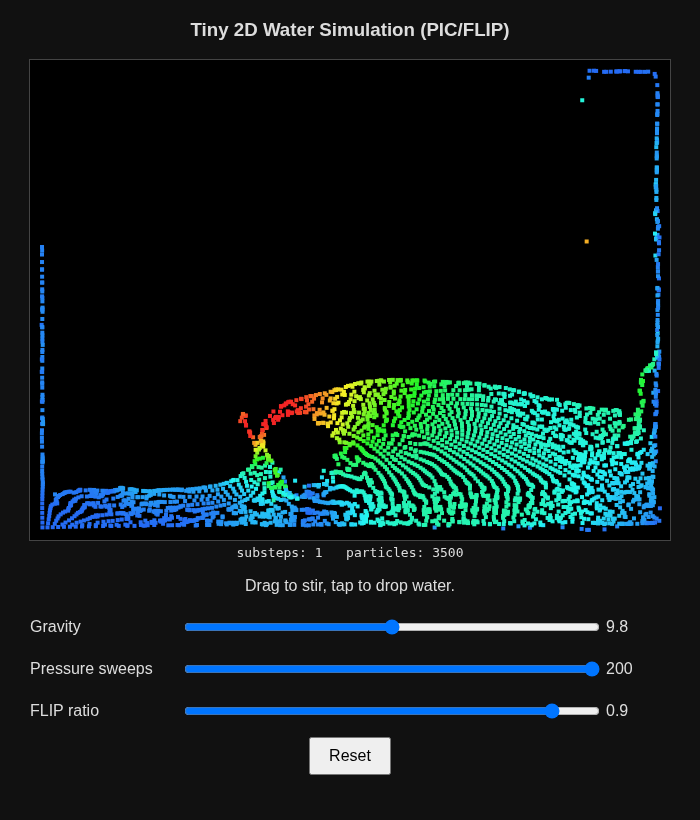
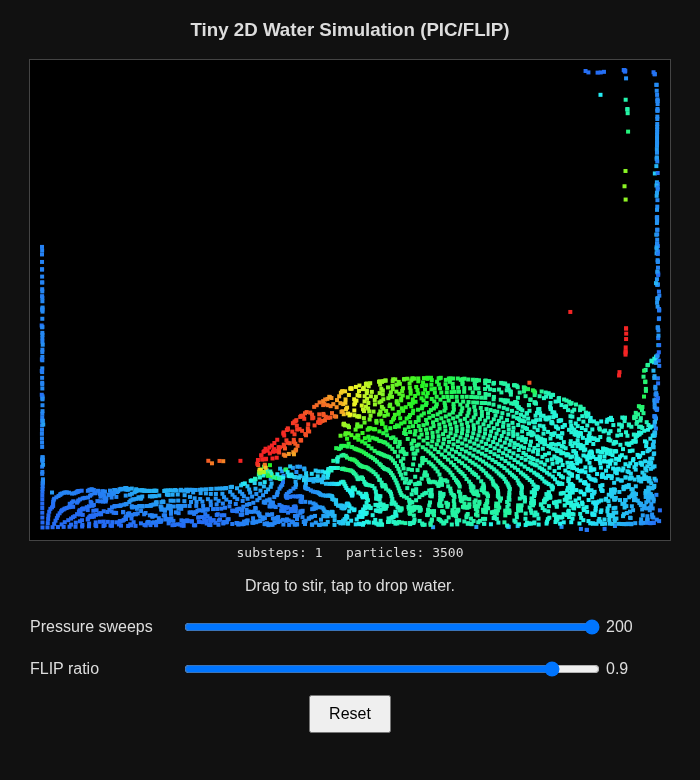
learn: remove gravity slider from UI (fixed 9.8; w.gravity still settable from code); checks.js b26dda1a 8/8 PASS; fingerprint 59d24fc8 unchanged; screenshot re-rendered

diff --git a/learn/checks.js b/learn/checks.js
@@ -53,12 +53,12 @@ const empty = () => { const w = createWorld(); w.x = []; w.y = []; w.vx = []; w.
   check('water conserved', ok, `${n0} particles, all inside the tank for 400 steps`);
 }
 
-// 6. Controls stability (amendment 4:26 PM): 2g + stir at the 4 m/s cap for 2 s.
-//    Ceiling from physics: sqrt(2)*(5.8 m/s 1g splash peak + 4 m/s stir cap) = 13.86 m/s.
+// 6. Controls stability (amendment 4:26 PM): 1g + stir at the 4 m/s cap for 2 s (gravity fixed).
+//    Ceiling: 5.8 m/s 1g splash peak + 4 m/s stir cap = 9.8 m/s.
 //    CFL: max|u|*dt_sub/h <= 1, measured after the last substep of every frame.
 {
   const M = require(path); if (M.frame) {
-    const w = M.createWorld(), n0 = w.x.length; w.gravity = 2 * 9.8;
+    const w = M.createWorld(), n0 = w.x.length; // gravity fixed at 9.8 (slider removed 4:28 PM)
     let maxU = 0, maxC = 0, ok = true;
     for (let f = 0; f < 480; f++) {
       const a = (f / 480) * 4 * Math.PI;
@@ -71,7 +71,7 @@ const empty = () => { const w = createWorld(); w.x = []; w.y = []; w.vx = []; w.
       }
       maxU = Math.max(maxU, fu); maxC = Math.max(maxC, fu * (1 / 240 / w.substeps) / CELL);
     }
-    const lim = Math.SQRT2 * (5.8 + 4);
+    const lim = (5.8 + 4);
     check('controls: finite and inside', ok && w.x.length === n0, `${w.x.length} of ${n0} particles`);
     check('controls: speed ceiling', maxU <= lim, `max|u| = ${maxU.toFixed(3)} m/s (limit ${lim.toFixed(2)})`);
     check('controls: CFL per substep', maxC <= 1, `max |u|*dt_sub/h = ${maxC.toFixed(3)} (limit 1)`);

diff --git a/learn/index.html b/learn/index.html
@@ -21,7 +21,6 @@
   <div id="status"></div>
   <p>Drag to stir, tap to drop water.</p>
   <div class="controls">
-    <label>Gravity <input id="gravity" type="range" min="0" max="19.6" step="0.1" value="9.8"><span id="gravityVal"></span></label>
     <label>Pressure sweeps <input id="sweeps" type="range" min="1" max="200" step="1" value="200"><span id="sweepsVal"></span></label>
     <label>FLIP ratio <input id="flip" type="range" min="0" max="1" step="0.05" value="0.9"><span id="flipVal"></span></label>
     <div><button id="reset">Reset</button></div>
@@ -34,8 +33,8 @@
     let world = createWorld();
     const params = new URLSearchParams(location.search);
 
-    // Sliders write straight into the world's settings (w.gravity, w.maxSweeps, w.flip).
-    const sliders = { gravity: 'gravity', sweeps: 'maxSweeps', flip: 'flip' };
+    // Sliders write straight into the world's settings (w.maxSweeps, w.flip). Gravity stays 9.8.
+    const sliders = { sweeps: 'maxSweeps', flip: 'flip' };
     function readSliders() {
       for (const [id, key] of Object.entries(sliders)) {
         const value = Number(document.getElementById(id).value);

diff --git a/learn/README.md b/learn/README.md
@@ -11,8 +11,8 @@ Headless test in Node: `node learn/test_headless.js` (400 steps, checks particle
 ## Controls
 - **Drag** on the water to stir: the grid speeds near your finger are nudged toward your finger's speed (capped at 4 m/s) before the pressure solve, so the water still can't be squashed.
 - **Tap/click** to drop a round blob of water.
-- **Sliders**: gravity (0 to 2g), pressure sweeps (1 to 200; fewer = squashier water, and a red warning appears when the sweep limit is hit), FLIP ratio (0 = syrupy PIC, 1 = lively FLIP).
-- All controls are plain fields on the world object (`w.gravity`, `w.maxSweeps`, `w.flip`, `w.stir = {x, y, vx, vy, active}`), so test code can set them too. The status line shows substeps per frame.
+- **Sliders**: pressure sweeps (1 to 200; fewer = squashier water, and a red warning appears when the sweep limit is hit), FLIP ratio (0 = syrupy PIC, 1 = lively FLIP).
+- All controls are plain fields on the world object (`w.maxSweeps`, `w.flip`, `w.stir = {x, y, vx, vy, active}`), so test code can set them too. Gravity is fixed at 9.8 m/s² in the page; tests can still set `w.gravity`. The status line shows substeps per frame.
 
 ## The five steps (in `fluid2d.js`, function `step`; `frame` repeats it 1-8 times)
 
